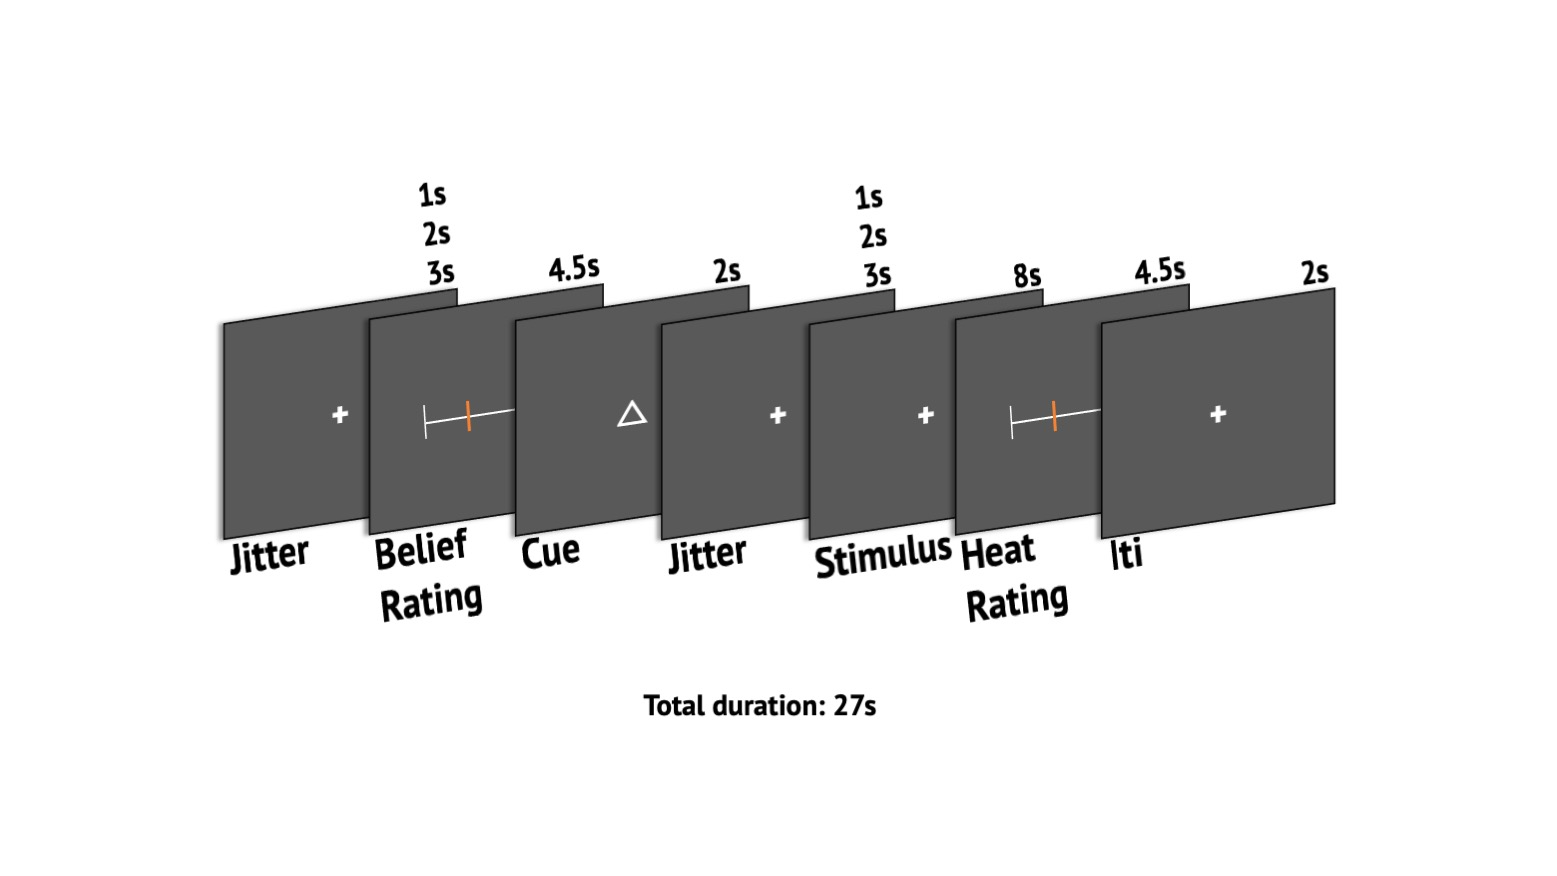
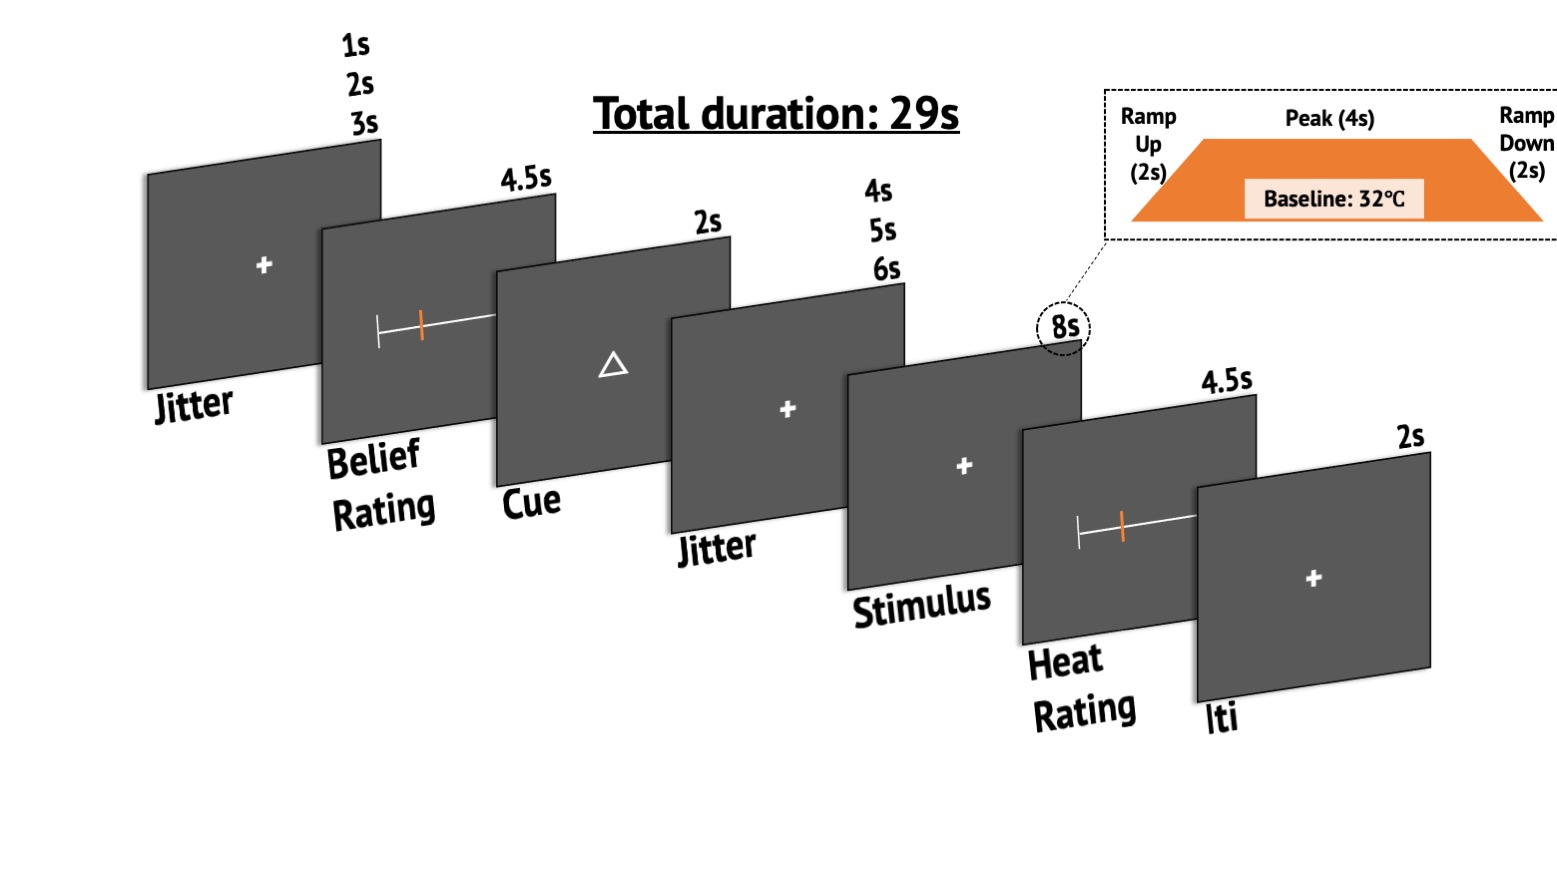
Update seconds in a trial

diff --git a/experiment/trial_heat.m b/experiment/trial_heat.m
@@ -43,16 +43,16 @@ end
 
 %% Wait secs parameters
 first_jitter = [1,2,3];
-second_jitter = [3,2,1];
+second_jitter = [6,5,4];
 iti = 2;
 
 wait_after_iti = iti; % iti: 2 sec
 wait_after_first_jitter = first_jitter(jitter_index); % 1st jitter: 1,2,3 sec
 wait_after_belief_rating = wait_after_first_jitter + 4.5; % belief rating: 4.5 sec
 wait_after_cue = wait_after_belief_rating + 2; % cue: 2 sec
-wait_after_stimulus = wait_after_cue + 8; % stimulus: 8 sec
-wait_after_jitter = wait_after_stimulus + second_jitter(jitter_index); % 2nd jitter: 1,2,3, sec
-wait_after_heat_rating = wait_after_jitter + 4.5; % heat rating: 4.5 sec
+wait_after_second_jitter = wait_after_cue + second_jitter(jitter_index); % 2nd jitter: 4,5,6 sec
+wait_after_stimulus = wait_after_second_jitter + 8; % stimulus: 8 sec
+wait_after_heat_rating = wait_after_stimulus + 4.5; % heat rating: 4.5 sec
 total_trial_time = wait_after_heat_rating + 3;
 
 
@@ -76,7 +76,7 @@ data.dat.jitter_value = {first_jitter second_jitter};
 data.dat.iti_value = iti;
 data.dat.jitter_index(trial_num) = jitter_index;
 
-%% (1) Jittering
+%% (1) First Jittering
 %all_start_t = GetSecs; 
 
 Screen(theWindow, 'FillRect', bgcolor, window_rect);
@@ -145,7 +145,7 @@ while true
         abort_experiment('manual');
         break
     end
-    if GetSecs - data.dat.belief_rating_starttime(trial_num) > 5
+    if GetSecs - data.dat.belief_rating_starttime(trial_num) > 4.5
         break
     end
 end
@@ -197,8 +197,21 @@ waitsec_fromstarttime(data.dat.trial_starttime(trial_num), wait_after_cue)
 end_t = GetSecs;
 data.dat.cue_duration(trial_num) = end_t - start_t;
 
+%% (4) Second Jittering
+Screen(theWindow, 'FillRect', bgcolor, window_rect);
+Screen('TextSize', theWindow, 60);
+DrawFormattedText(theWindow, double('+'), 'center', 'center', white, [], [], [], 1.2);
+Screen('Flip', theWindow);
+Screen('TextSize', theWindow, fontsize);
 
-%% (4) Heat stimulus
+waitsec_fromstarttime(data.dat.trial_starttime(trial_num), wait_after_second_jitter)
+
+Screen(theWindow, 'FillRect', bgcolor, window_rect);
+Screen('Flip', theWindow);
+
+
+
+%% (5) Heat stimulus
 % Heat pain stimulus
 if ~expt_param.pathway
     Screen(theWindow, 'FillRect', bgcolor, window_rect);
@@ -206,7 +219,7 @@ if ~expt_param.pathway
     Screen('Flip', theWindow);
 end
 
-%% ------------- start to trigger thermal stimulus------------------
+% ------------- start to trigger thermal stimulus------------------
 if expt_param.pathway
     Screen(theWindow, 'FillRect', bgcolor, window_rect);
     Screen('TextSize', theWindow, 60);
@@ -216,28 +229,15 @@ if expt_param.pathway
     main(ip,port,2);
 end
 
-%% Check stimulus time
+% Check stimulus time
 data.dat.stimulus_time(trial_num) = GetSecs;
 
 
-%% stimulus time adjusting
+% stimulus time adjusting
 waitsec_fromstarttime(data.dat.trial_starttime(trial_num), wait_after_stimulus)
 
 
-%% Jittering
-% Screen(theWindow, 'FillRect', bgcolor, window_rect);
-% Screen('TextSize', theWindow, 60);
-% DrawFormattedText(theWindow, double('+'), 'center', 'center', white, [], [], [], 1.2);
-% Screen('Flip', theWindow);
-% Screen('TextSize', theWindow, fontsize);
-% 
-% waitsec_fromstarttime(data.dat.trial_starttime(trial_num), wait_after_jitter)
-% 
-% Screen(theWindow, 'FillRect', bgcolor, window_rect);
-% Screen('Flip', theWindow);
-% 
-
-%% (5) Heat Rating
+%% (6) Heat Rating
 % Setting for rating
 rating_types_pls = call_ratingtypes_pls('temp');
 
@@ -281,7 +281,7 @@ while true
         abort_experiment('manual');
         break
     end
-    if GetSecs - data.dat.heat_rating_starttime(trial_num) > 5
+    if GetSecs - data.dat.heat_rating_starttime(trial_num) > 4.5
         break
     end
 end
